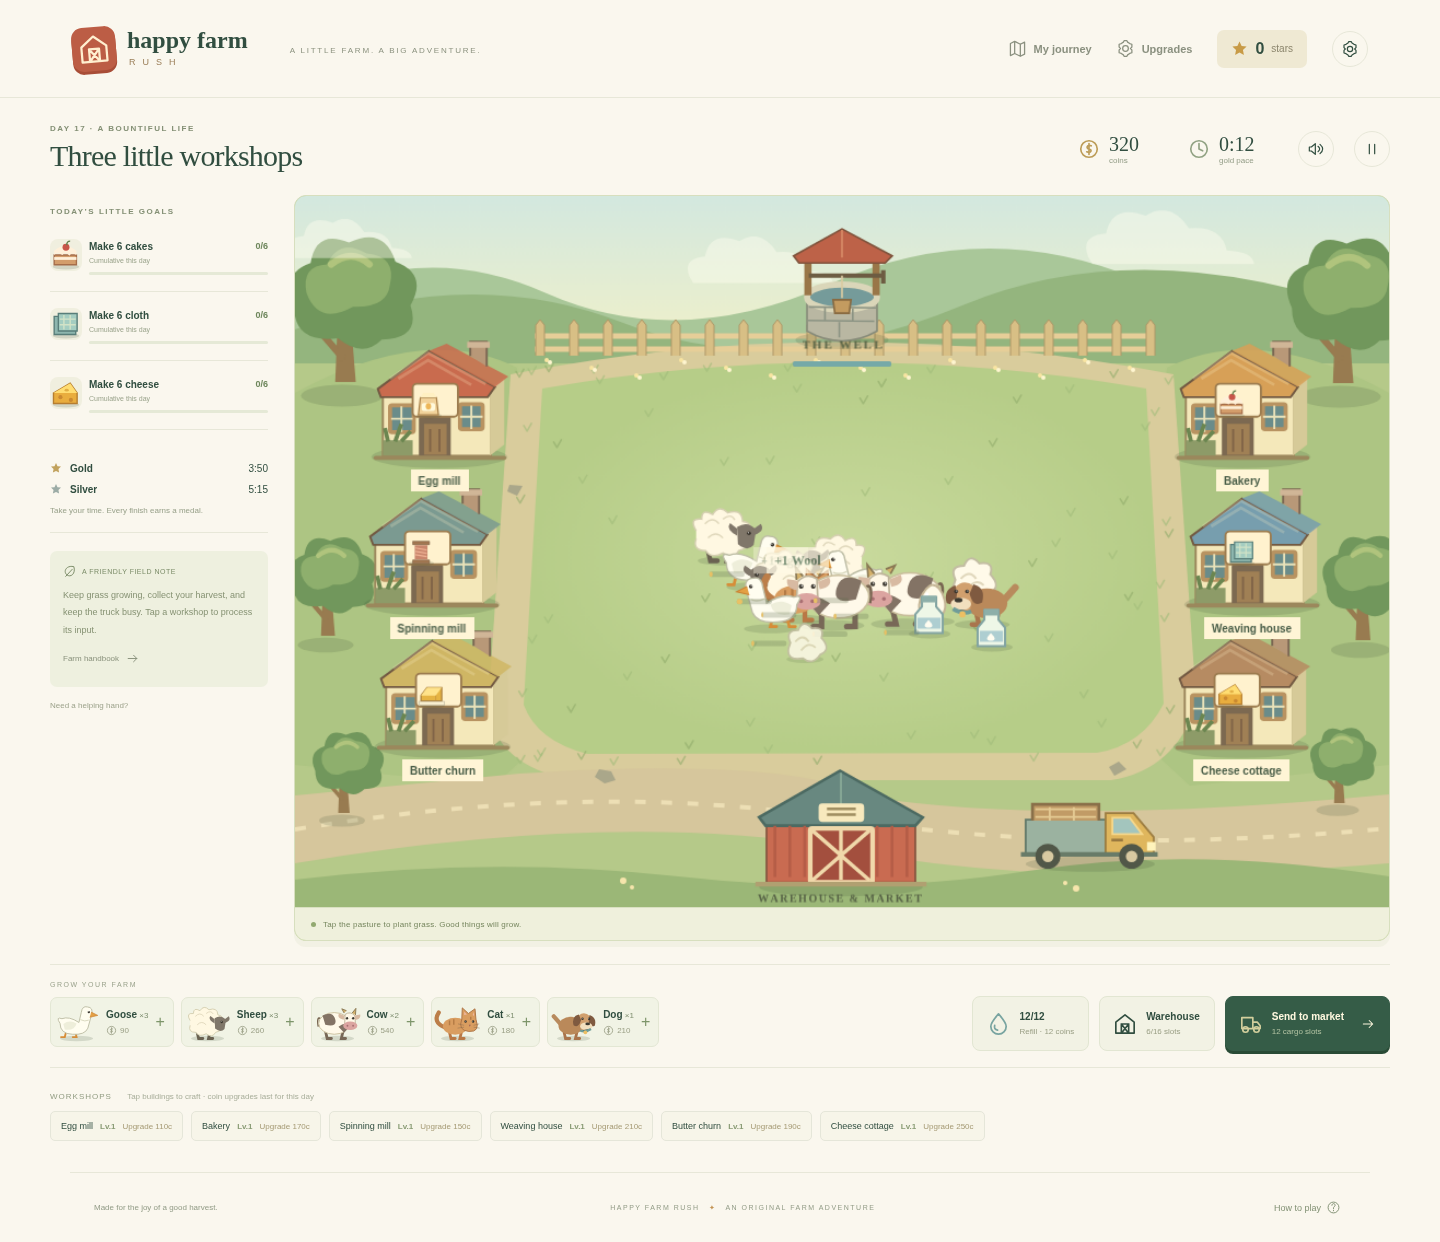
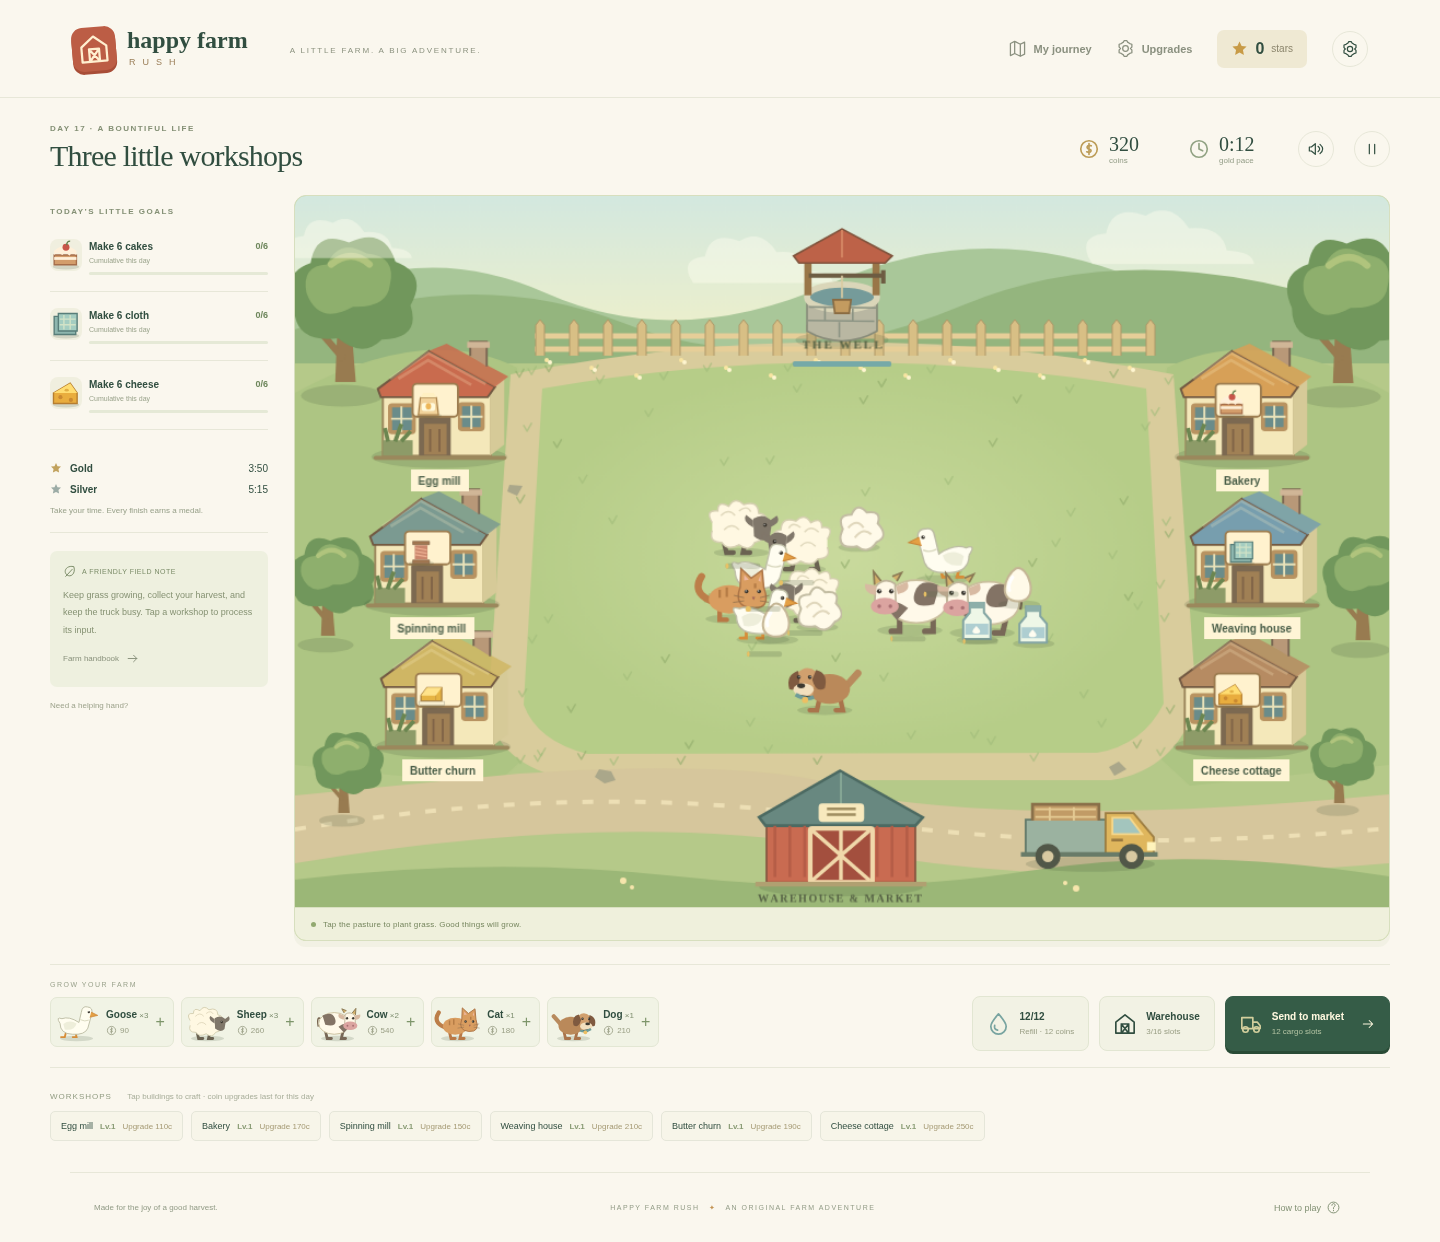
Keep feeding animals separated and verify crowded farm recovery

Changed region(s): [[0.4688, 0.3977, 0.75, 0.5813]]

diff --git a/src/game/engine/AnimalAI.ts b/src/game/engine/AnimalAI.ts
@@ -22,7 +22,7 @@ export function updateAnimals(c:AIContext,dt:number):void {
   if(threat){a.state='fleeing';a.target={x:Math.min(E.field.right,Math.max(E.field.left,a.x+(a.x-threat.x)*2)),y:Math.min(E.field.bottom,Math.max(E.field.top,a.y+(a.y-threat.y)*2))};move(a,a.target,cfg.speed*1.35,dt);}
   else {
    const food=a.hunger>17?s.grass.filter(g=>g.food>0).sort((g,h)=>distance(a,g)-distance(a,h))[0]:undefined;
-   if(food){a.target={x:food.x,y:food.y};if(distance(a,food)>23){a.state='seeking';move(a,food,cfg.speed,dt);}else{a.state='eating';const eaten=Math.min(food.food,E.eatRate*dt);food.food-=eaten;a.hunger=Math.max(0,a.hunger-eaten*E.feedRate/E.eatRate);}}
+   if(food){a.target={x:food.x,y:food.y};if(distance(a,food)>Math.max(23,cfg.radius+6)){a.state='seeking';move(a,food,cfg.speed,dt);}else{a.state='eating';const eaten=Math.min(food.food,E.eatRate*dt);food.food-=eaten;a.hunger=Math.max(0,a.hunger-eaten*E.feedRate/E.eatRate);}}
    else wander(c,a,dt);
    if(a.hunger<E.hungerStop){a.cooldown-=dt;if(a.cooldown<=0&&cfg.product){a.cooldown=cfg.interval;a.state='producing';s.produced[cfg.product]++;c.drop(cfg.product,{x:a.x+18,y:a.y+14});c.emit({kind:'product',text:PRODUCTS[cfg.product].name,x:a.x,y:a.y});}}
   }
@@ -30,7 +30,7 @@ export function updateAnimals(c:AIContext,dt:number):void {
  }
  // Soft separation, bounded and deterministic; never changes targets or snaps to a grid.
  for(let i=0;i<s.animals.length;i++)for(let j=i+1;j<s.animals.length;j++){
-  const a=s.animals[i],b=s.animals[j],d=distance(a,b);if(d<29&&d>0.01){const f=(29-d)*dt;const dx=(a.x-b.x)/d*f,dy=(a.y-b.y)/d*f;a.x+=dx;a.y+=dy;b.x-=dx;b.y-=dy;}
+  const a=s.animals[i],b=s.animals[j],d=distance(a,b),space=ANIMALS[a.species].radius+ANIMALS[b.species].radius;if(d<space&&d>0.01){const f=(space-d)*dt*3;const dx=(a.x-b.x)/d*f,dy=(a.y-b.y)/d*f;a.x+=dx;a.y+=dy;b.x-=dx;b.y-=dy;}
  }
  for(const a of s.animals){a.x=Math.max(E.field.left,Math.min(E.field.right,a.x));a.y=Math.max(E.field.top,Math.min(E.field.bottom,a.y));}
  s.grass=s.grass.filter(g=>g.food>0.01);

diff --git a/tests/simulation.test.ts b/tests/simulation.test.ts
@@ -14,6 +14,7 @@ const seconds=(g:GameSimulation,t:number)=>{for(let i=0;i<t*20;i++)g.step();};
 describe('deterministic farm simulation',()=>{
  it('is deterministic across identical action streams',()=>{const a=farm(),b=farm();for(let i=0;i<600;i++){if(i%80===0){a.plant(270+i%400,320);b.plant(270+i%400,320);}a.step();b.step();}expect(a.s).toEqual(b.s);});
  it('seeks grass, consumes it and reduces hunger',()=>{const g=farm(1),a=g.s.animals[0];a.hunger=65;a.x=g.s.grass[0].x;a.y=g.s.grass[0].y;const food=g.s.grass[0].food;seconds(g,1);expect(a.state).toBe('eating');expect(a.hunger).toBeLessThan(65);expect(g.s.grass[0].food).toBeLessThan(food);});
+ it('keeps feeding animals apart at a shared grass patch',()=>{const g=farm(1);g.s.animals=[];g.s.grass=[{id:g.id(),x:500,y:330,food:28,age:3}];const a=g.addAnimal('goose'),b=g.addAnimal('goose');a.x=500;a.y=330;b.x=501;b.y=330;a.hunger=b.hunger=50;seconds(g,1);expect(Math.hypot(a.x-b.x,a.y-b.y)).toBeGreaterThan(40);expect(a.hunger).toBeLessThan(50);expect(b.hunger).toBeLessThan(50);});
  it('gets hungry without food, stops production, eventually leaves',()=>{const g=farm(1),a=g.s.animals[0];g.s.grass=[];a.hunger=88;a.cooldown=1;seconds(g,15);expect(a.hunger).toBeGreaterThan(88);expect(g.s.drops).toHaveLength(0);seconds(g,100);expect(g.s.animals).toHaveLength(0);});
  it('produces on cooldown and never every frame',()=>{const g=farm(1);seconds(g,10);expect(g.s.drops).toHaveLength(1);seconds(g,1);expect(g.s.drops).toHaveLength(1);});
  it('plants with water and refills asynchronously for coins',()=>{const g=farm(1);g.s.water=1;expect(g.plant(260,450)).toBe(true);expect(g.plant(310,450)).toBe(false);const c=g.s.coins;expect(g.refill()).toBe(true);expect(g.s.coins).toBe(c-12);expect(g.s.water).toBe(0);seconds(g,4.1);expect(g.s.water).toBe(12);});

diff --git a/src/game/config/animals.ts b/src/game/config/animals.ts
@@ -1,8 +1,8 @@
 import type {Species,Product} from './types';
-export const ANIMALS:Record<Species,{name:string;price:number;speed:number;interval:number;hunger:number;product:Product|null;description:string}> = {
- goose:{name:'Goose',price:90,speed:36,interval:30,hunger:1.35,product:'egg',description:'A happy goose lays eggs.'},
- sheep:{name:'Sheep',price:260,speed:28,interval:42,hunger:1.2,product:'wool',description:'Soft wool, a warm little heart.'},
- cow:{name:'Cow',price:540,speed:23,interval:50,hunger:1.55,product:'milk',description:'Fresh milk for the dairy chain.'},
- cat:{name:'Cat',price:180,speed:68,interval:0,hunger:0,product:null,description:'Collects nearby goods for you.'},
- dog:{name:'Dog',price:210,speed:55,interval:0,hunger:0,product:null,description:'Barks to hold bears in place.'}
+export const ANIMALS:Record<Species,{name:string;price:number;speed:number;radius:number;interval:number;hunger:number;product:Product|null;description:string}> = {
+ goose:{name:'Goose',price:90,speed:36,radius:22,interval:30,hunger:1.35,product:'egg',description:'A happy goose lays eggs.'},
+ sheep:{name:'Sheep',price:260,speed:28,radius:24,interval:42,hunger:1.2,product:'wool',description:'Soft wool, a warm little heart.'},
+ cow:{name:'Cow',price:540,speed:23,radius:30,interval:50,hunger:1.55,product:'milk',description:'Fresh milk for the dairy chain.'},
+ cat:{name:'Cat',price:180,speed:68,radius:18,interval:0,hunger:0,product:null,description:'Collects nearby goods for you.'},
+ dog:{name:'Dog',price:210,speed:55,radius:21,interval:0,hunger:0,product:null,description:'Barks to hold bears in place.'}
 };

diff --git a/TESTING.md b/TESTING.md
@@ -4,9 +4,9 @@ Verified on 2026-11-08 in the development environment. Automated tests establish
 
 ## Engine and campaign
 
-`npm test`: **135 passed**, two test files.
+`npm test`: **136 passed**, two test files.
 
-- 34 tests cover deterministic action streams, grass consumption and hunger, production cooldowns, planting/refills, successful and blocked collection, cats, expiration, every workshop conversion and timer, local upgrades, truck capacity and invalid cargo, exactly-once delivery credit, bear warnings/attacks/capture/escape, dog stun, goal semantics, completion freeze, medal boundaries, persistent upgrades, rescue, fixed-step timing, pause/catch-up limits, full save restoration and validation, reward deduplication and upgrade purchases.
+- 35 tests cover deterministic action streams, grass consumption and hunger, shared-food collision spacing, production cooldowns, planting/refills, successful and blocked collection, cats, expiration, every workshop conversion and timer, local upgrades, truck capacity and invalid cargo, exactly-once delivery credit, bear warnings/attacks/capture/escape, dog stun, goal semantics, completion freeze, medal boundaries, persistent upgrades, rescue, fixed-step timing, pause/catch-up limits, full save restoration and validation, reward deduplication and upgrade purchases.
 - 101 tests run all twenty days under five deterministic player policies, with no permanent upgrades, and confirm the adverse bear scenario actually loses an animal and still finishes. The final campaign/profile matrix completed **100/100** scenarios within the 900-second per-day ceiling. Measured simulation campaigns span **45.15–47.62 minutes**. See `balance-results.json` and `BALANCE.md` for policy assumptions.
 
 `npm run build`: **passed** strict TypeScript checking and Vite's static production build. Phaser is pinned to **4.2.1**. Output is approximately 1.46 MB JavaScript (398 KB gzip), 30 KB CSS (7 KB gzip), and a small HTML entry point; SVG assets are embedded and require no runtime service.
@@ -24,6 +24,8 @@ Verified on 2026-11-08 in the development environment. Automated tests establish
 The campaign flow starts from empty local storage, plants grass, lets a goose feed and produce, manually collects four eggs, completes the day, receives its medal/stars, returns to the map, buys an upgrade, starts day 2, saves, pauses, advances virtual time without farming, reloads, resumes, checks exact restored water/time, verifies retained campaign upgrades/rewards, tests the hidden-tab handler and checks horizontal overflow. It asserts there are no page runtime errors.
 
 The production flow starts from a **valid interrupted final-day fixture**, with one egg, wool and milk and no animals, to isolate machinery. Through real canvas clicks and full configured timers it makes powder/thread/butter, picks them up, makes cake/cloth/cheese, cages and collects a scheduled bear, selects the three manufactured goods, dispatches an eight-slot delivery and checks that exactly 553 coins arrive once after the full trip. No direct engine mutation occurs after the fixture is loaded. This flow is intentionally not a claim that all twenty levels were manually played through the renderer; the campaign matrix covers their economics.
+
+After the final animal-spacing adjustment, the new shared-food regression, complete 136-test engine/campaign suite, production build, and a populated day-17 browser smoke were rerun successfully. The six full browser flows were last run immediately before this spacing-only adjustment.
 
 Screenshots of the map, farm, completion, upgrade shop, final-day workshops and selected market cargo are in `screenshots/` for all three viewports. The SVG-loading error found during development was corrected before release. Responsive navigation has explicit accessible labels, and touch devices get larger product hit regions.
 

diff --git a/BALANCE.md b/BALANCE.md
@@ -80,9 +80,9 @@ Days 1–6 target about 1–3 minutes, days 7–16 about 2–4 minutes, and days
 | Policy | Completed days | Total simulation time | Animals lost | Farm-aid uses |
 |---|---:|---:|---:|---:|
 | beginner | 20/20 | 47.62 min | 0 | 0 |
-| average | 20/20 | 45.80 min | 0 | 0 |
+| average | 20/20 | 46.07 min | 0 | 0 |
 | efficient | 20/20 | 45.15 min | 0 | 0 |
-| storage-shortage | 20/20 | 46.08 min | 0 | 0 |
+| storage-shortage | 20/20 | 46.58 min | 0 | 0 |
 | bear-loss | 20/20 | 46.07 min | 17 | 0 |
 
 The bear-loss policy produced 17 genuine attack losses across the 17 days with scheduled bears and still completed every day. It deliberately places a warned bear at a producer for one attack before normal defense resumes; it does not inject free replacement animals or money. No farm aid was needed in any of these final policies.
